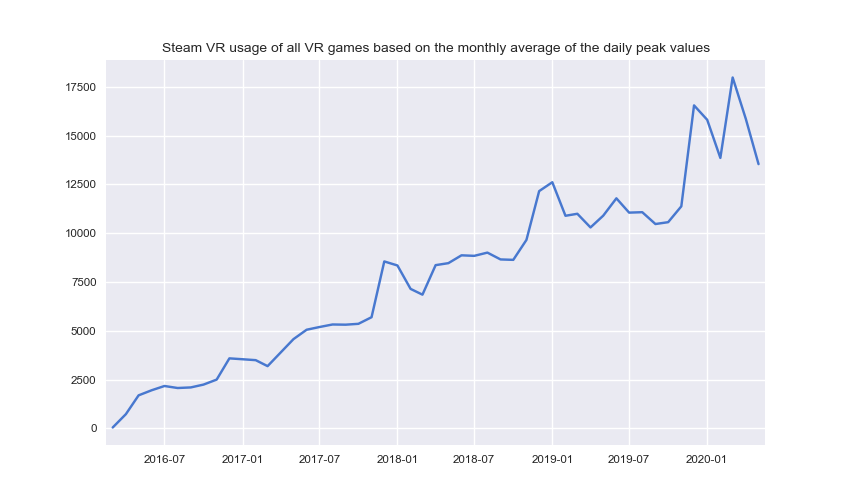
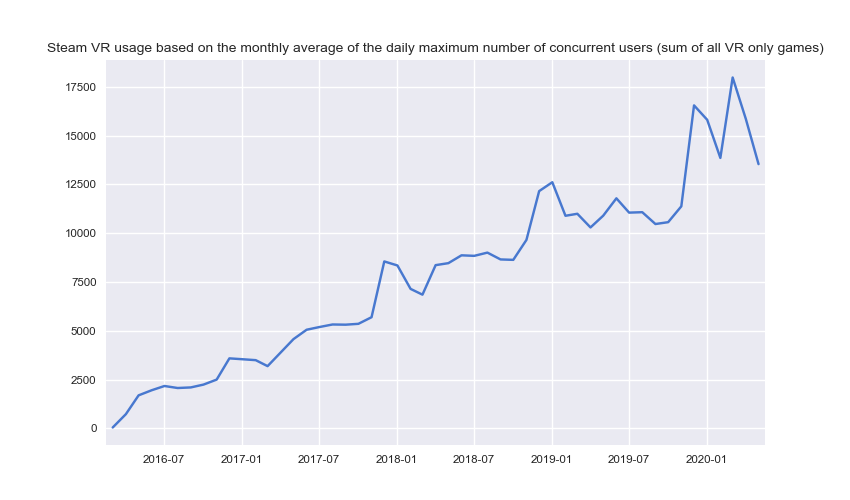
update

diff --git a/src/create_charts.py b/src/create_charts.py
@@ -74,8 +74,8 @@ def line_charts(starting_date):
     """Creates the line charts with the data from the sql queries and saves them"""
 
     # Chart 1
-    chart_title = "Steam VR usage of all VR games based on the monthly average" \
-                  " of the daily peak values"
+    chart_title = "Steam VR usage based on the monthly average " \
+                  "of the daily maximum number of concurrent users (sum of all VR only games)"
     sql_result = sql.peak_players()
     line_chart_plot(sql_result, chart_title)
     plt.savefig('../images/avg_peak_over_time.png')
